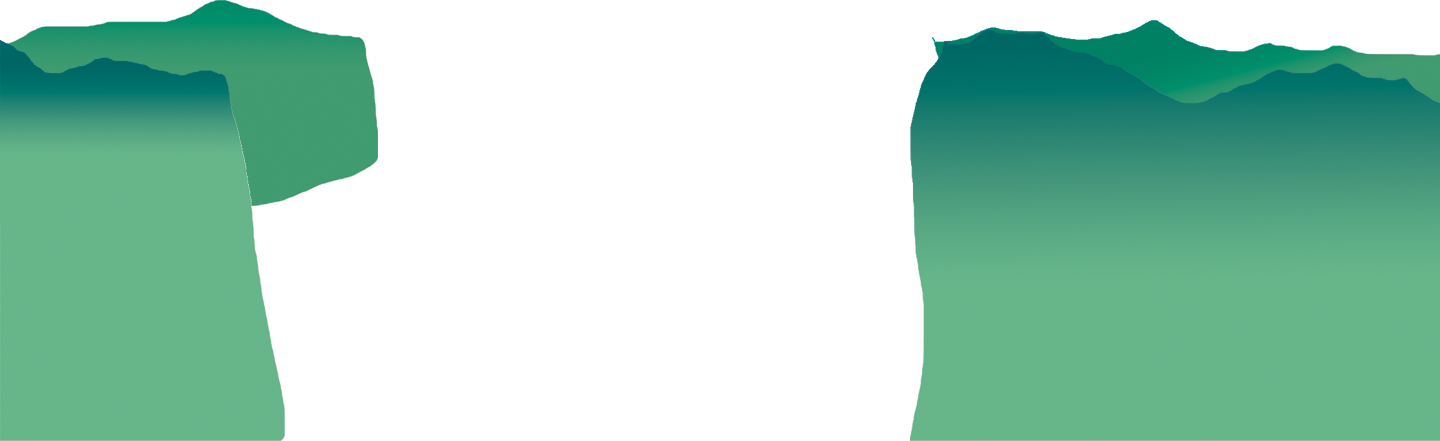
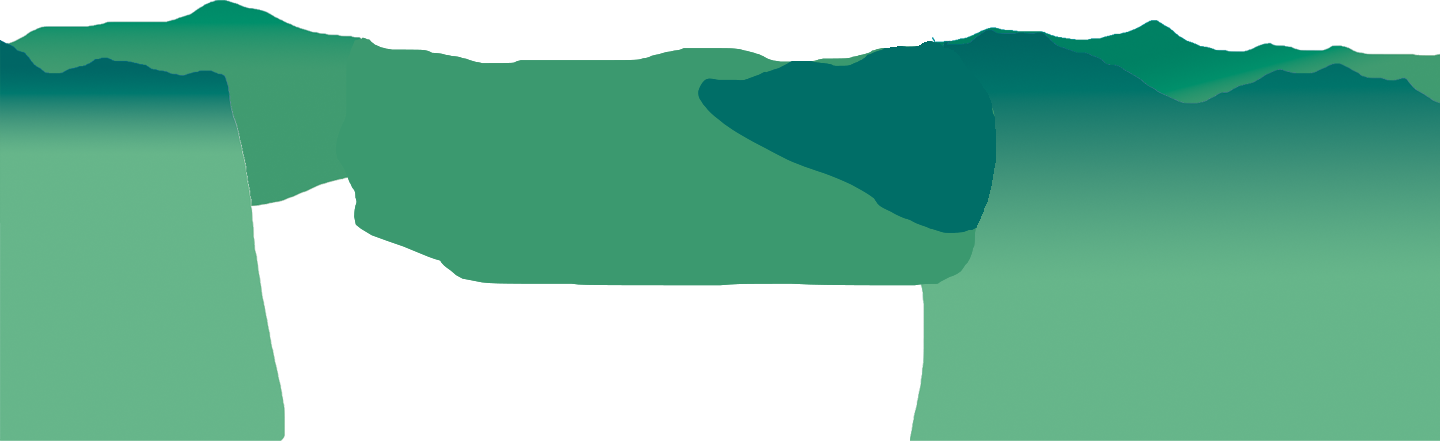
玉山視差滾動

Changed region(s): [[0.2188, 0.0884, 0.7188, 0.6485]]

diff --git a/game.html b/game.html
@@ -13,10 +13,10 @@
 <body>
 
     <div class="head-navbar">
-        <a href="index.html" class="head-navbarItem navbarItem1">關於我們</a>
-        <a href="forum.html" class="head-navbarItem navbarItem2">線上論壇</a>
-        <a href="#" class="head-navbarItem navbarItem3">Q&A</a>
-        <a href="#" class="head-navbarItem navbarItem4">登入/註冊</a>
+        <a href="./index.html" class="head-navbarItem navbarItem1">關於我們</a>
+        <a href="./forum.html" class="head-navbarItem navbarItem2">線上論壇</a>
+        <a href="./game.html" class="head-navbarItem navbarItem3">Q&A</a>
+        <a href="./login.html" class="head-navbarItem navbarItem4">登入/註冊</a>
     </div>
     <div class="parallax">
         
@@ -26,29 +26,32 @@
         <div class="parallax__layer parallax__layer__1">
             <img src="./image/gameview/朵雲.png"  />
         </div>
-        <!-- <div class="parallax__layer parallax__layer__2">
+        <div class="parallax__layer parallax__layer__2">
             <img src="./image/gameview/山遠.png" />
-        </div> -->
+        </div>
+        
         <div class="parallax__layer parallax__layer__3">
             <img src="./image/gameview/山近.png" />
         </div>
+
         <div class="parallax__layer parallax__layer__4">
             <div><img src="./image/gameview/銜接.png" /></div>
         </div>
-        <!-- <div class="parallax__layer parallax__layer__5">
-            <img src="./image/gameview/g2.png" />
-        </div> -->
-        <!-- <div class="parallax__layer parallax__layer__6">
-            <img src="./image/gameview/g1.png" />
-        </div> -->
-        <!-- <div class="parallax__layer parallax__layer__7">
-            <img src="./image/gameview/g3.png" />
-        </div> -->
-
-
         <div class="parallax__cover">
-
+            <section>內容寫在這裡面!!!</section>
         </div>
+        <div class="parallax__layer parallax__layer__5">
+            <img src="./image/gameview/g2.png" />
+        </div>
+        <div class="parallax__layer parallax__layer__6">
+            <img src="./image/gameview/g1.png" />
+        </div>
+        <div class="parallax__layer parallax__layer__7">
+            <img src="./image/gameview/g3.png" />
+        </div>
+
+
+        
     </div>
 
 

diff --git a/css/game.css b/css/game.css
@@ -48,62 +48,59 @@ body {
 	 bottom: 0;
 }
  .parallax__cover {
-	 /* background-color: #54676E; */
+	 background-color: #7dc6c6;
 	 display: block;
 	 position: absolute;
-	 top: 200%;
+	 top: 170%;
 	 left: 0;
 	 right: 0;
 	 height: 2000px;
-	 z-index: 1;
+	 z-index: 0;
 	 
 }
  .parallax__layer__0 {
-	 transform: translateZ(-550px) scale(2.3) translateX(-180px)translateY(200px);
+	 transform: translateZ(-550px) scale(3.2) translateX(10px)translateY(200px);
      /* width: 100vw; */
 }
 .parallax__layer__0 img{
-    margin-bottom: 300px;
+    margin-bottom: 500px;
     
 }
  .parallax__layer__1 {
-	 transform: translateZ(-500px) scale(3)translateY(-210px)translateX(140px);
+	 transform: translateZ(-500px) scale(3)translateY(-210px)translateX(300px);
      
 }
 
  .parallax__layer__2 {
-	 transform: translateZ(-400px) scale(2.1)translateX(330px);
-     left: 80px;
-     top: 430px;
-     bottom: 40px;
+	 transform: translateZ(-400px) scale(2.8)translateY(110px) translateX(40px);
+
 
 }
  .parallax__layer__3 {
-	 transform: translateZ(-350px) scale(2.5)translateY(100px)translateX(1000px);
+	 transform: translateZ(-350px) scale(2.8)translateY(70px)translateX(900px);
 
 }
 
  .parallax__layer__4 {
-	 transform: translateZ(-300px) scale(2)translateY(350px)translateX(50px);
+	 transform: translateZ(-300px) scale(2)translateY(350px)translateX(0px);
 
 }
 
  .parallax__layer__5 {
-	 transform: translateZ(-300px) scale(2)translateY(-240px);
+	 transform: translateZ(-200px) scale(2)translateY(180px) translateX(620px);
      
 }
 
  .parallax__layer__6 {
-	 transform: translateZ(-200px) scale(1.8)translateY(380px)translateX(50px);
+	 transform: translateZ(-150px) scale(1.8)translateY(260px)translateX(450px);
 
 }
 
 .parallax__layer__7 {
-    transform: translateZ(-100px) scale(1.5)translateY(270px)translateX(1150px);
+    transform: translateZ(-100px) scale(2.1)translateY(140px)translateX(280px);
     
 }
-
-.parallax__layer__8 {
-    transform: translateZ(-100px) scale(1.6)translateY(260px)translateX(130px);
-
+section{
+    margin-top: 400px;
+    margin-left: 50px;
 }

diff --git a/forum.html b/forum.html
@@ -13,9 +13,9 @@
 <body>
 
     <div class="head-navbar">
-        <a href="index.html" class="head-navbarItem navbarItem1">關於我們</a>
-        <a href="forum.html" class="head-navbarItem navbarItem2">線上論壇</a>
-        <a href="#" class="head-navbarItem navbarItem3">Q&A</a>
+        <a href="./index.html" class="head-navbarItem navbarItem1">關於我們</a>
+        <a href="./forum.html" class="head-navbarItem navbarItem2">線上論壇</a>
+        <a href="./game.html" class="head-navbarItem navbarItem3">Q&A</a>
         <a href="./login.html" class="head-navbarItem navbarItem4">登入/註冊</a>
     </div>
     <div class="parallax">

diff --git a/index.html b/index.html
@@ -16,7 +16,7 @@
     <div class="head-navbar">
         <a href="#about-us" class="head-navbarItem navbarItem1">關於我們</a>
         <a href="./forum.html" class="head-navbarItem navbarItem2">線上論壇</a>
-        <a href="#" class="head-navbarItem navbarItem3">Q&A</a>
+        <a href="./game.html" class="head-navbarItem navbarItem3">Q&A</a>
         <a href="./login.html" class="head-navbarItem navbarItem4">登入/註冊</a>
     </div>
     <div class="parallax">
